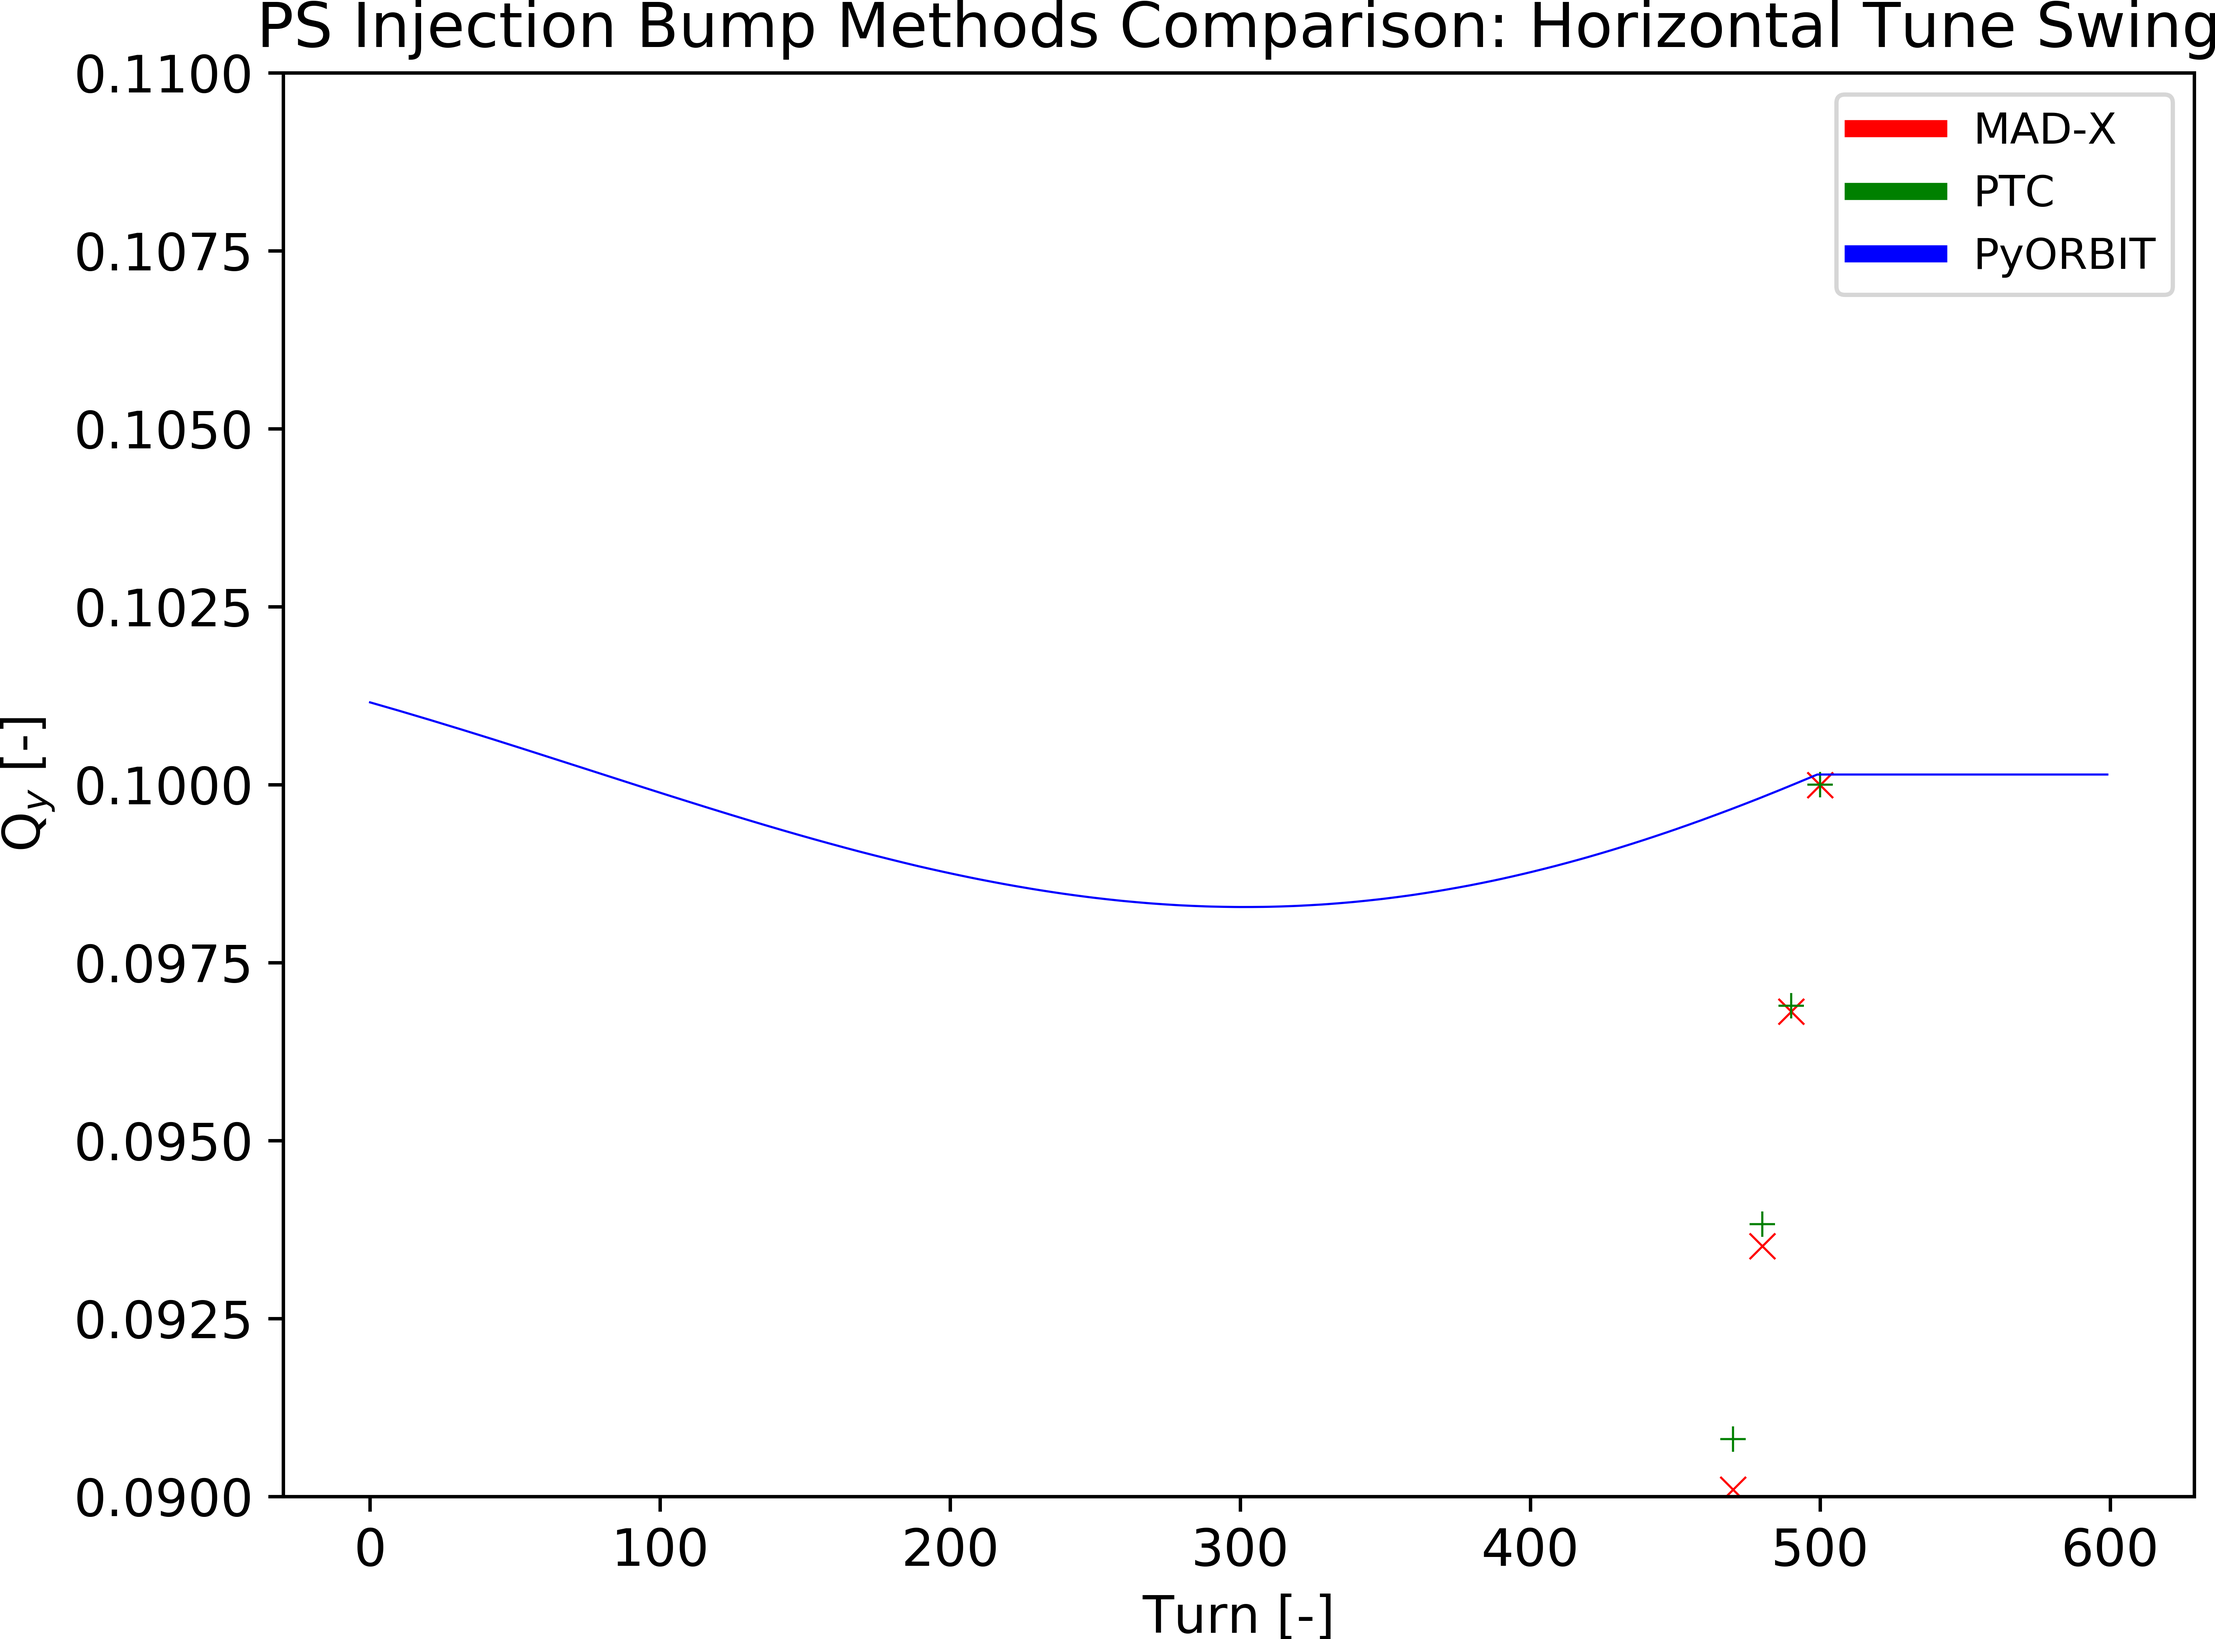
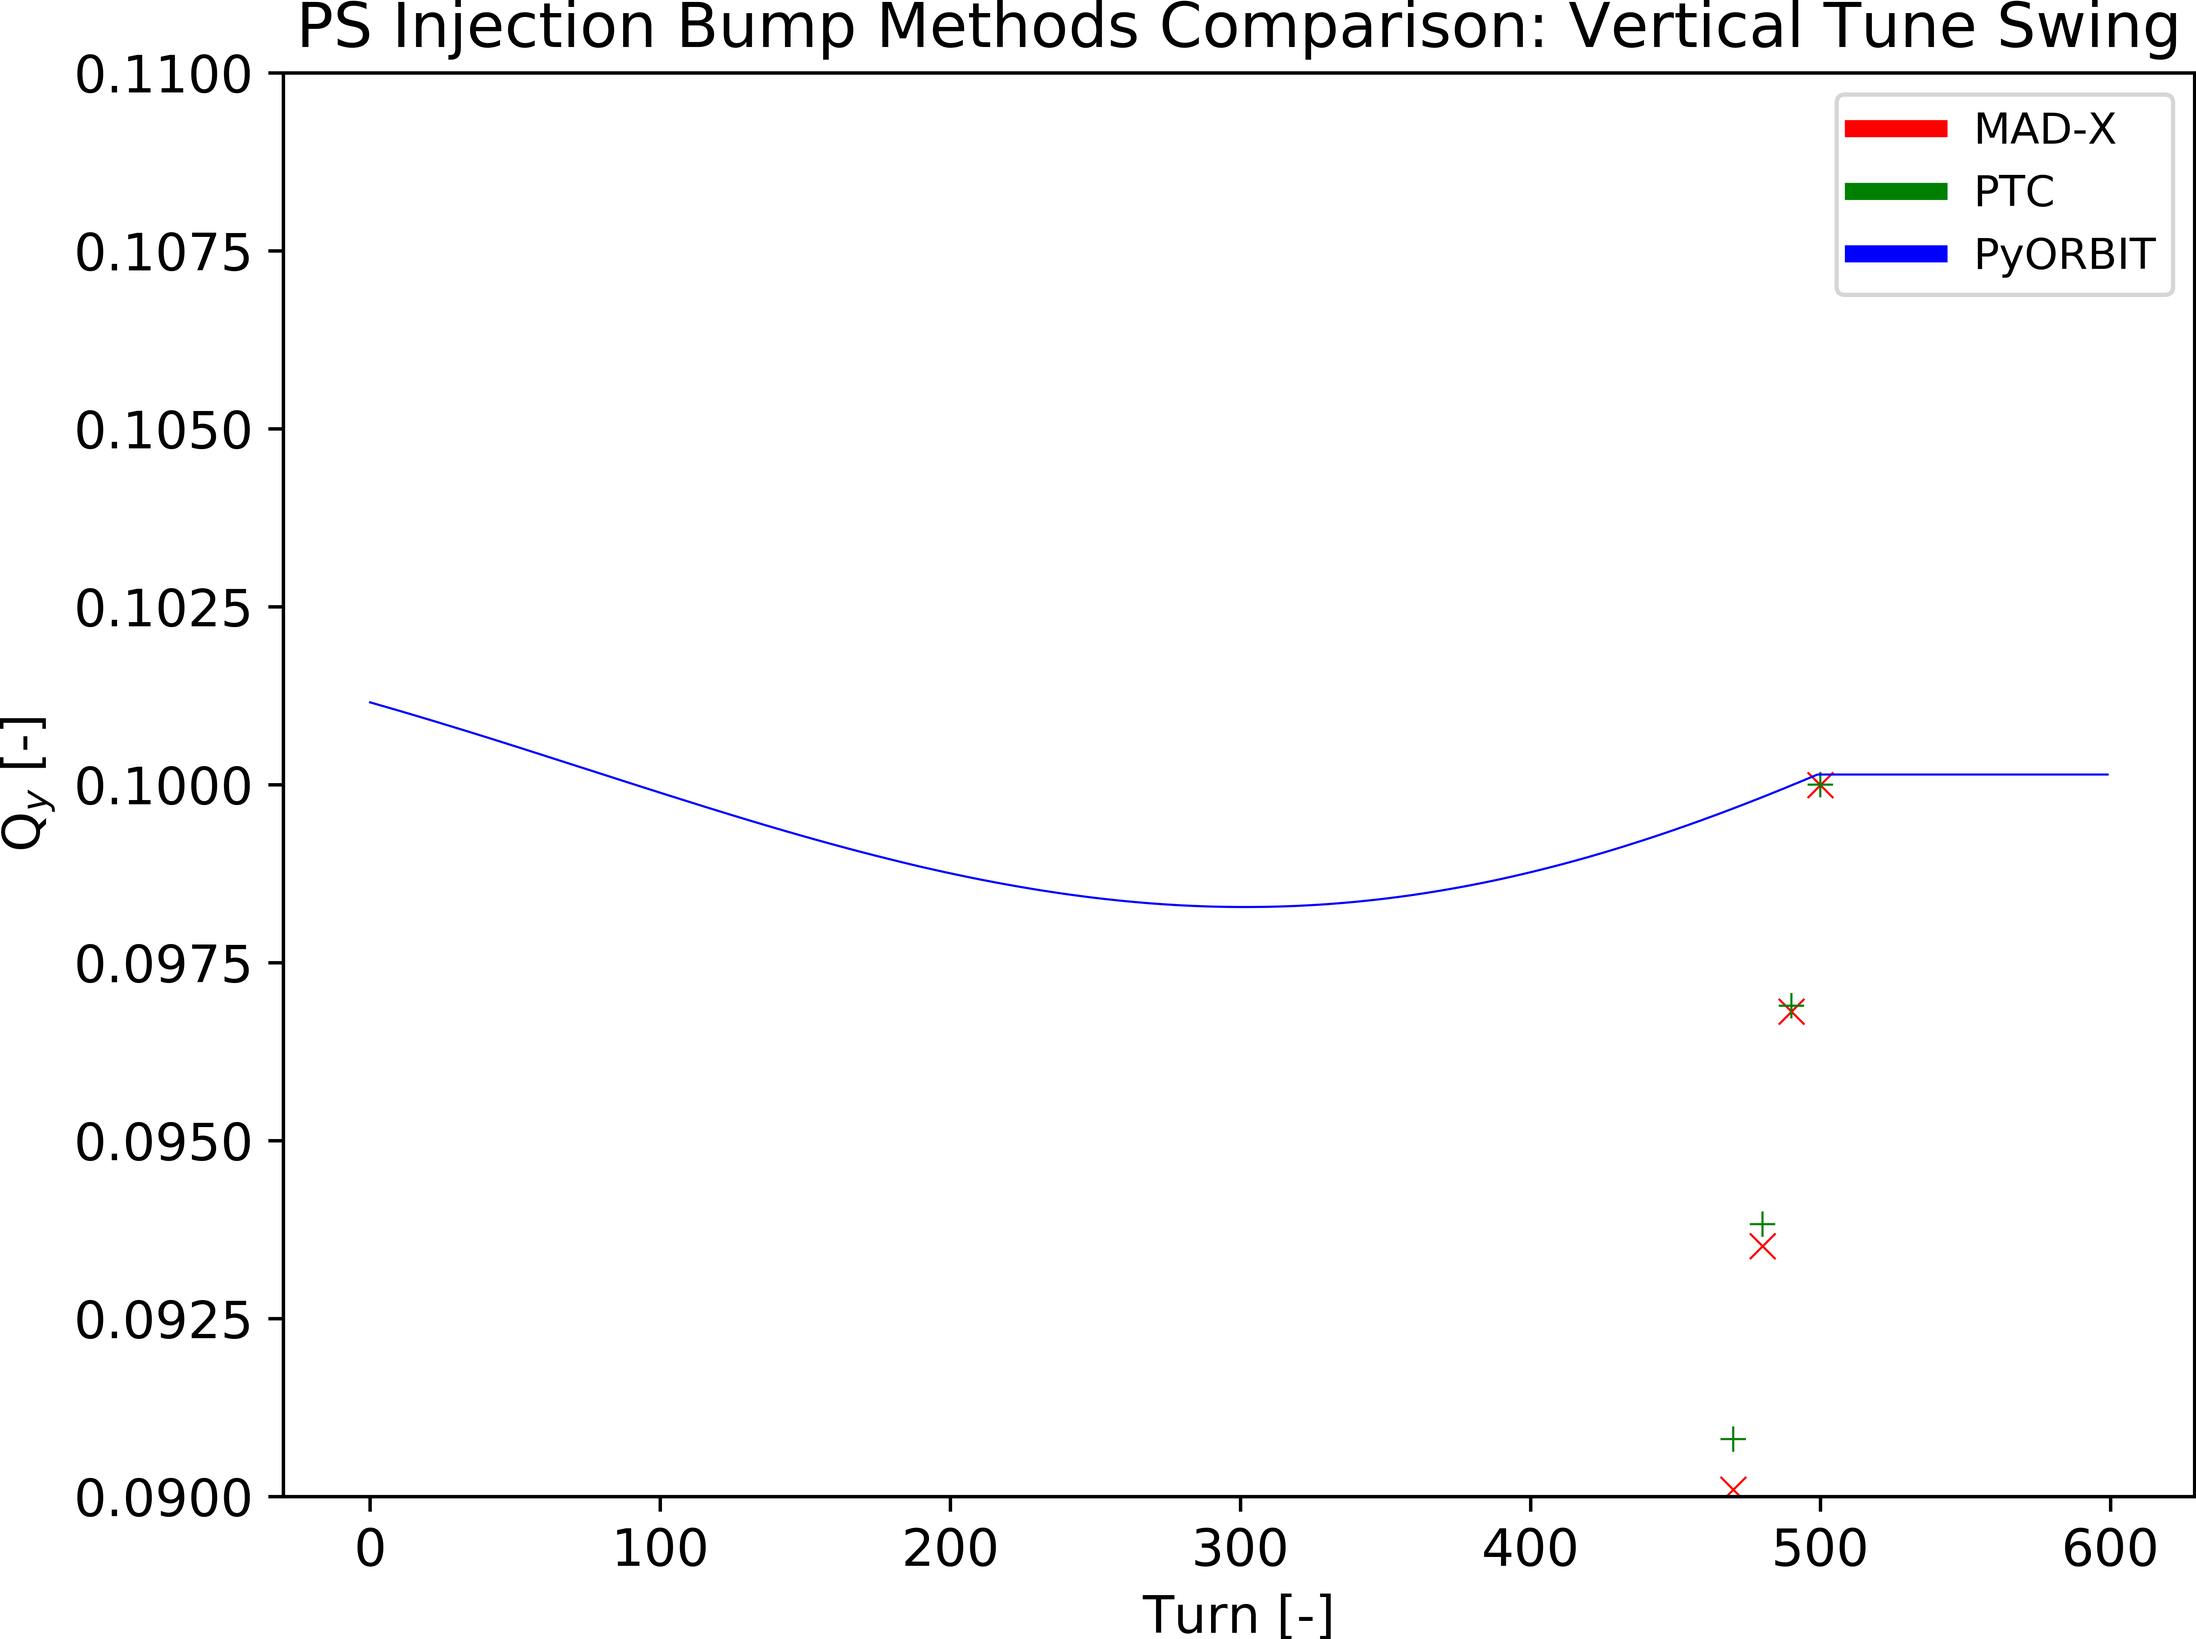
MD4224: HB: Output: Injection_Bump_20Aug19 plots udpated

diff --git a/MD4224/High_Brightness/Simulation/Injection_Bump/Plot_BSEXT_Out_and_Orbit_Extrema.py b/MD4224/High_Brightness/Simulation/Injection_Bump/Plot_BSEXT_Out_and_Orbit_Extrema.py
@@ -160,7 +160,7 @@ for j in range(4):
 print '\n\tPlotting Qy'
 for j in range(4):
 	fig, ax1 = plt.subplots();
-	plt.title("PS Injection Bump Methods Comparison: Horizontal Tune Swing");
+	plt.title("PS Injection Bump Methods Comparison: Vertical Tune Swing");
 
 	for i in sorted(BO[labels[j]].keys()):
 		ax1.scatter(i, BO[labels[j]][i][3]-6, color='r', marker='x');
